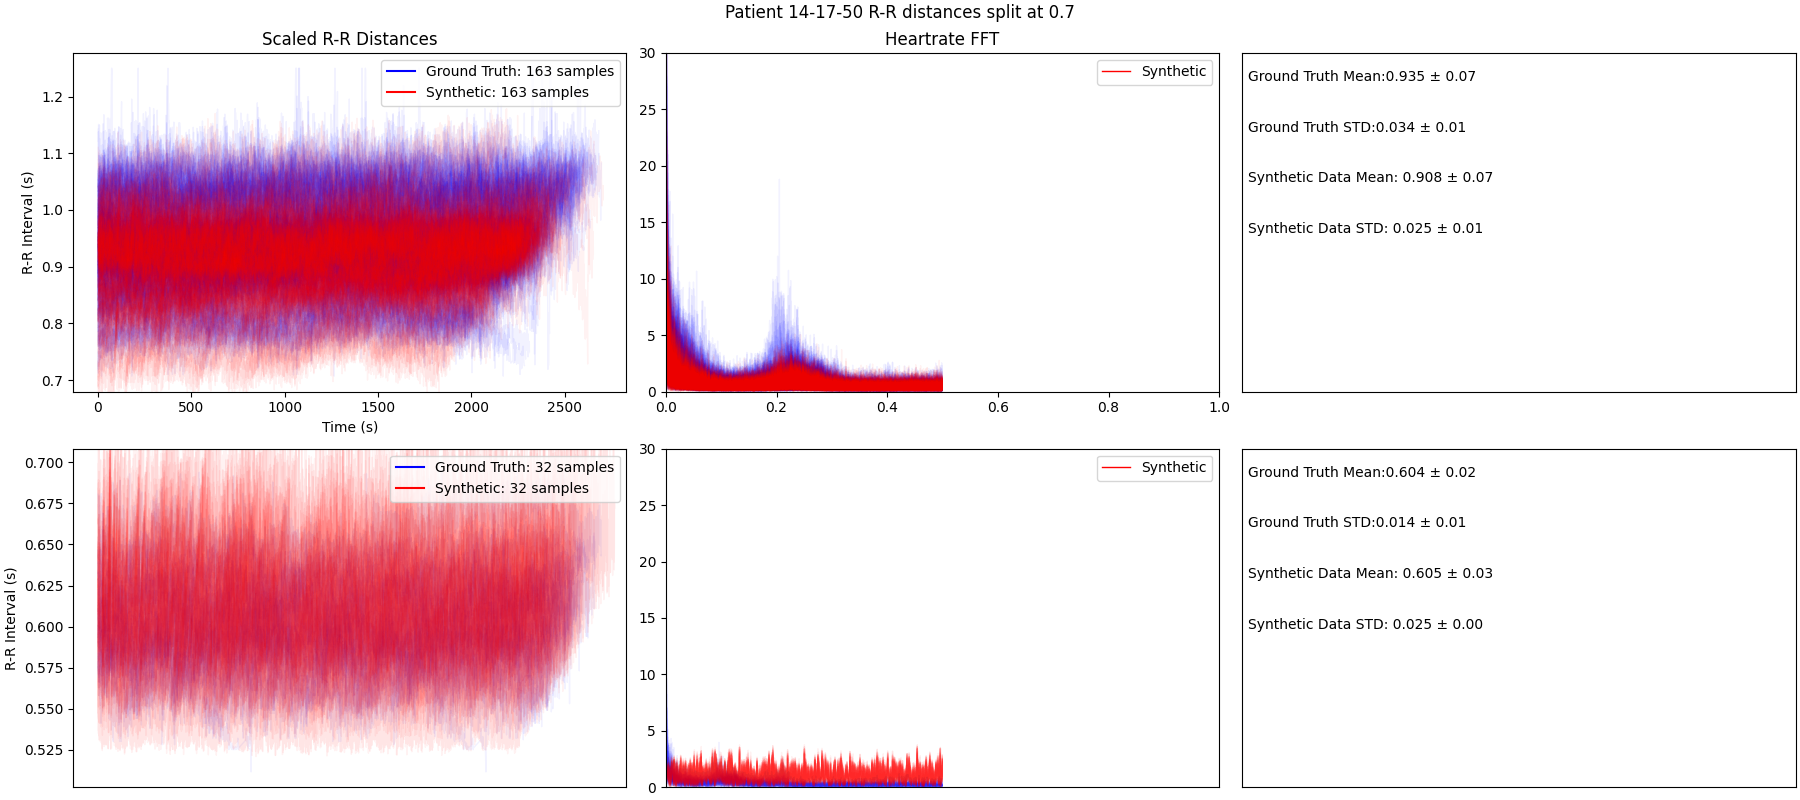
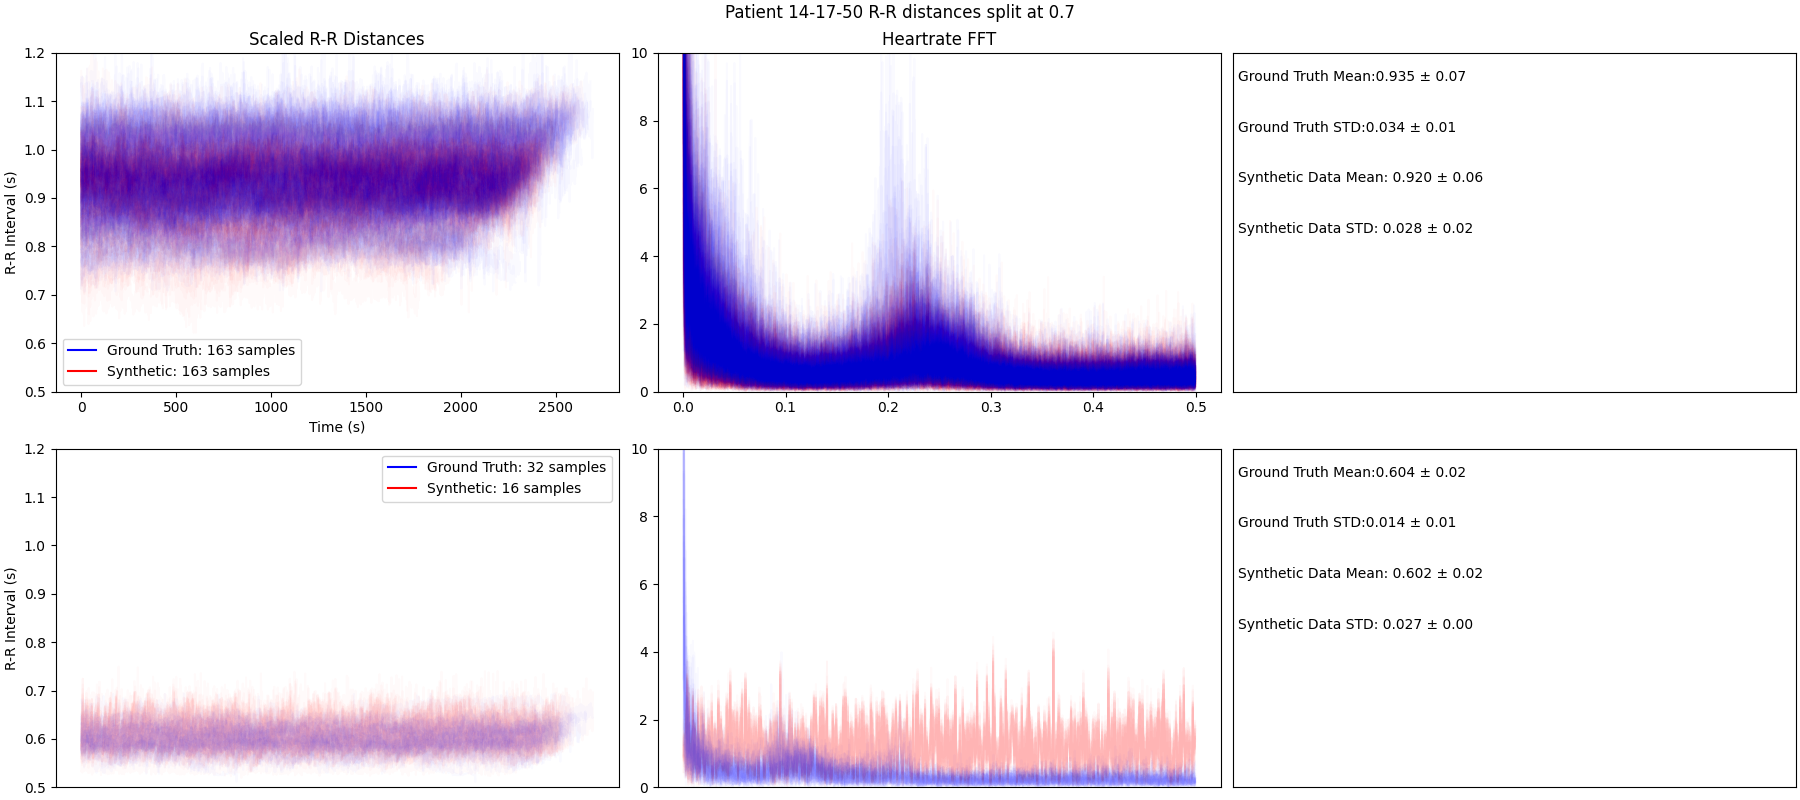
added variance ratio

diff --git a/create_analysis_plots.py b/create_analysis_plots.py
@@ -14,10 +14,50 @@ from sklearn.mixture import GaussianMixture
 from fastkde.fastKDE import pdf
 from sklearn.cluster import KMeans
 from sklearn.metrics import silhouette_score
+from scipy.stats import f
 
 #data processing params
 patient_names = '06-31-24', '09-40-14', '10-48-45', '11-03-38', '13-22-23', '14-17-50'
-elbows = 3, 2, 2, 8, 2, 2
+elbows = 3, 2, 2, 2, 2, 2
+
+
+def variance_ratio_gmm_1d(n, n_components):
+    X = n.reshape(-1, 1)
+    gmm = GaussianMixture(n_components=n_components, random_state=0)
+    gmm.fit(X)
+    means = gmm.means_.reshape(-1)           # shape (K,)
+    resp = gmm.predict_proba(X)              # shape (num_samples, K)
+    overall_mean = X.mean()
+    tss = np.sum((X.flatten() - overall_mean) ** 2)
+    diffs = X - means.reshape(1, -1)
+    sq_dists = diffs ** 2
+    wss = np.sum(resp * sq_dists)
+    bss = tss - wss
+    variance_ratio = bss / tss
+    return variance_ratio
+
+
+def f_test(name='variance_ratio', max_splits=10):
+    _, axes = plt.subplots(2, len(patient_names)//2, figsize=(14,7), layout = "constrained")
+    axes = axes.flatten()
+    n_components_range = range(1, max_splits)
+    for itr, (patient,elbow) in enumerate(zip(patient_names,elbows)):
+        # Load your 1D heartrate data
+        heartrate_data = np.loadtxt(f'processed_data/heartrate_{patient}_unscaled.csv', delimiter=',')
+        all_ratios = []
+        for ncomp in n_components_range:
+            all_ratios.append(variance_ratio_gmm_1d(heartrate_data, ncomp))
+        axes[itr].plot(n_components_range, all_ratios)
+        axes[itr].set_ylabel('Variance Ratio')
+        axes[itr].set_xlabel('# Gaussian Distributions in Mixture')
+        axes[itr].set_title(f"patient {patient}")
+    plt.suptitle('Variance Ratio - Goodness of Fit')
+    plt.savefig(f"figures/{name}.png")
+    plt.show()
+
+
+
+
 
 def binning_study(name='binning', bin_nums = [10,50,100,400,700,1000,2000]):
     _, axes = plt.subplots(len(patient_names), len(bin_nums), figsize=(17,10), layout = "constrained")
@@ -62,7 +102,7 @@ def silhouette_plot(name='silhouette', samplings=50):
     plt.show()
 
 
-def get_violin_plot(name='violin'):
+def violin_plot(name='violin'):
     all_data = []
     for patient in patient_names:
         heartrate_data = np.loadtxt(
@@ -84,13 +124,13 @@ def get_violin_plot(name='violin'):
     plt.show()
 
 
-def get_kernel_estimate(name='kernel'):
+def kernel_estimate(name='kernel'):
     """
     Uses fastKDE to create and plot a Gaussian Kernel Density Estimate
     """
     _, axes = plt.subplots(2, len(patient_names)//2, figsize=(14,7), layout = "constrained")
     axes = axes.flatten()
-    for itr, (patient,elbow) in enumerate(zip(patient_names,elbows)):
+    for itr, patient in enumerate(patient_names):
         # Load your 1D heartrate data
         heartrate_data = np.loadtxt(
             f'processed_data/heartrate_{patient}_unscaled.csv',
@@ -107,12 +147,12 @@ def get_kernel_estimate(name='kernel'):
     plt.savefig(f"figures/{name}.png")
     plt.show()
 
-def get_elbow_graph(name='elbow'):
+def get_elbow_graph(name='elbow', max_splits = 10):
     _, axes = plt.subplots(2, len(patient_names)//2, figsize=(14,7), layout = "constrained")
     axes = axes.flatten()
     for itr, (patient,elbow) in enumerate(zip(patient_names,elbows)):
         heartrate_data = np.loadtxt(f'processed_data/heartrate_{patient}_unscaled.csv', delimiter=',').reshape(-1, 1)
-        n_components_range = range(1, 10)
+        n_components_range = range(1, max_splits)
         bics = []
         aics = []
         for n in n_components_range:
@@ -134,7 +174,7 @@ def get_elbow_graph(name='elbow'):
     plt.show()
 
 
-def get_histograms(name='dist_hist'):
+def histograms(name='histogram_plot'):
     """
     Load data based on patient names and display histograms of the
     heartrate distributions. Display the locations in which the distributions are split using
@@ -142,7 +182,7 @@ def get_histograms(name='dist_hist'):
     """
     _, axes = plt.subplots(2, len(patient_names)//2, figsize=(14,7), layout = "constrained")
     axes = axes.flatten()
-    for itr, (patient,elbow) in enumerate(zip(patient_names,[2,2,2,2,2,2])):
+    for itr, (patient,elbow) in enumerate(zip(patient_names,elbows)):
         heartrate_data = np.loadtxt(f'processed_data/heartrate_{patient}_unscaled.csv', delimiter=',')
 
         # Fit GMM to raw data
@@ -169,7 +209,7 @@ def get_histograms(name='dist_hist'):
     plt.savefig(f"figures/{name}.png")
     plt.show()
 
-def get_dist_plots(name='dist_plot'):
+def plot_heartrate_over_time(name='dist_plot'):
     if len(patient_names)//2:
         _, axes = plt.subplots(len(patient_names)//2,2, figsize=(15,6), layout = "constrained")
         axes = axes.flatten()
@@ -190,3 +230,5 @@ def get_dist_plots(name='dist_plot'):
             axes[itr].set_xlabel("Time (h)")
     plt.savefig(f"figures/{name}.png")
     plt.show()
+
+histograms()

diff --git a/train_gan_heartrate.py b/train_gan_heartrate.py
@@ -92,7 +92,7 @@ def get_synthetic_outputs(gan, iterations, latent_dim=100):
     synthetic_output = np.array([gan(torch.randn(1, 100).cuda()).cpu().detach().numpy().squeeze() for _ in range(iterations)])
     return synthetic_output
 
-def final_plot(synth_data:list, ground_truth_data:list, data_max:float, data_min:float, name:str, alpha=0.0001, linewidth=0.5):
+def final_plot(synth_data:list, ground_truth_data:list, data_max:float, data_min:float, name:str, alpha=0.02):
     fig, axes = plt.subplots(len(synth_data),3,figsize=(18,8),constrained_layout=True)
     for itr, (synthetic, ground_truth) in enumerate(zip(synth_data, ground_truth_data)):
         synthetic =   ((synthetic + 1) / 2) * (data_max - data_min) + data_min
@@ -100,19 +100,20 @@ def final_plot(synth_data:list, ground_truth_data:list, data_max:float, data_min
 
         wave_ax = axes[itr,0]
         fft_ax = axes[itr,1]
-        fft_ax.set_ylim(0,20)
+        fft_ax.set_ylim(0,10)
+        wave_ax.set_ylim(0.5,1.2)
         text_ax = axes[itr,2]
+
+        for it, synth_wave in enumerate(synthetic):
+            wave_ax.plot(np.cumsum(synth_wave), synth_wave, alpha=alpha, color='red')
+            synth_freq, synth_mag, synth_peaks = fft_transform(synth_wave)
+            fft_ax.plot(synth_freq[1:], synth_mag[1:], alpha=alpha, color='red')
 
         for it, gt_wave in enumerate(ground_truth):
             gt_squeezed = gt_wave.squeeze()
-            wave_ax.plot(np.cumsum(gt_squeezed), gt_squeezed, linewidth=linewidth, alpha=alpha, color='blue')
+            wave_ax.plot(np.cumsum(gt_squeezed), gt_squeezed, alpha=alpha, color='blue')
             freq, mag, _ = fft_transform(gt_squeezed)
-            fft_ax.plot(freq[1:], mag[1:], alpha=alpha, linewidth=linewidth, color='blue')
-
-        for it, synth_wave in enumerate(synthetic):
-            wave_ax.plot(np.cumsum(synth_wave), synth_wave, alpha=alpha, linewidth=linewidth, color='red')
-            synth_freq, synth_mag, synth_peaks = fft_transform(synth_wave)
-            fft_ax.plot(synth_freq[1:], synth_mag[1:], alpha=alpha, linewidth=linewidth, color='red')
+            fft_ax.plot(freq[1:], mag[1:], alpha=alpha, color='blue')
 
         synth_mean = f'{np.mean(synthetic):.3f} \u00B1 {np.std(np.mean(synthetic, axis=1)):.2f}'
         synth_std = f'{np.mean(np.std(synthetic, axis=1)):.3f} \u00B1 {np.std(np.std(synthetic, axis=1)):.2f}'
@@ -148,8 +149,8 @@ def final_plot(synth_data:list, ground_truth_data:list, data_max:float, data_min
 high_data, low_data, data_min, data_max = split_patient(patient_name = '14-17-50', split_loc= 0.7)
 high_data_dl, high_data_test = make_GAN_test_set(high_data)
 low_data_dl, low_data_test = make_GAN_test_set(low_data)
-wgan_gp_high = train_store_gan(high_data_dl, 'high_dataset', just_load=False, epochs=700)
-wgan_gp_low = train_store_gan(low_data_dl, 'low_dataset', just_load=False, epochs=700)
+wgan_gp_high = train_store_gan(high_data_dl, 'high_dataset', just_load=False, epochs=1000)
+wgan_gp_low = train_store_gan(low_data_dl, 'low_dataset', just_load=False, epochs=1000)
 synth_high = get_synthetic_outputs(wgan_gp_high, iterations=len(high_data_test))
-synth_low = get_synthetic_outputs(wgan_gp_low, iterations=len(low_data_test))
+synth_low = get_synthetic_outputs(wgan_gp_low, iterations=int(len(low_data_test)/2))
 final_plot([synth_high, synth_low], [high_data_test,low_data_test], data_max=data_max, data_min=data_min, name='Patient 14-17-50 R-R distances split at 0.7')
